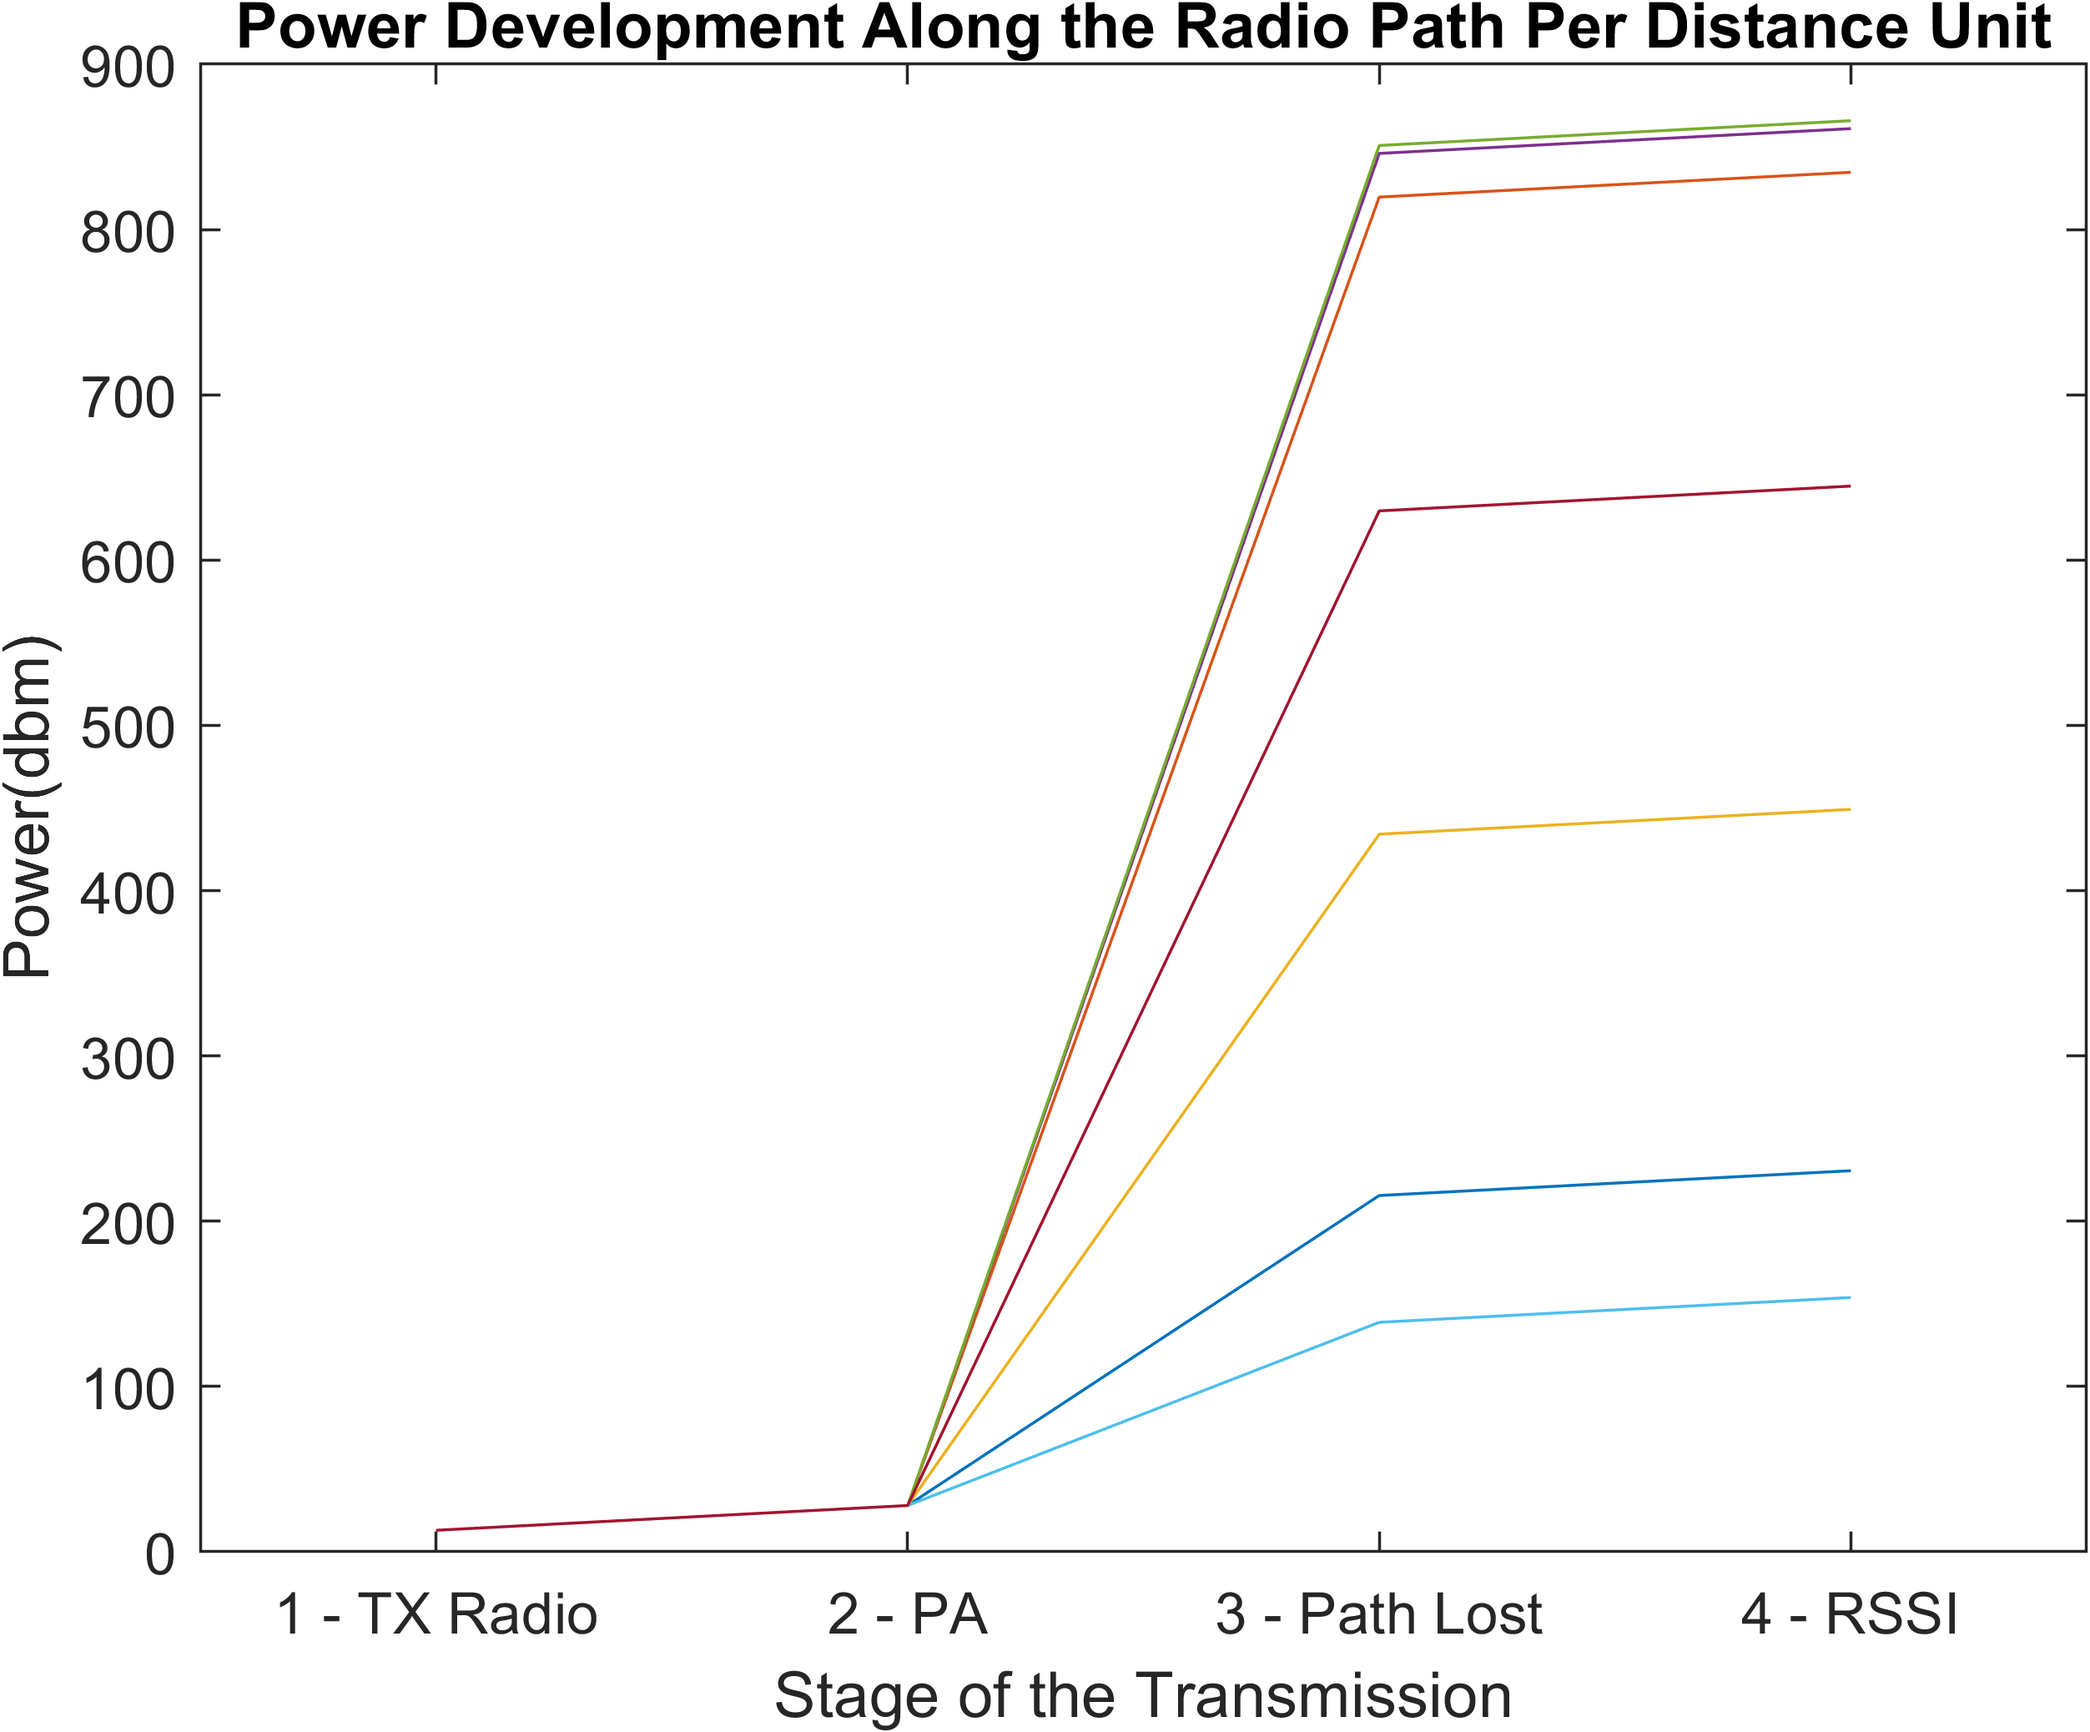
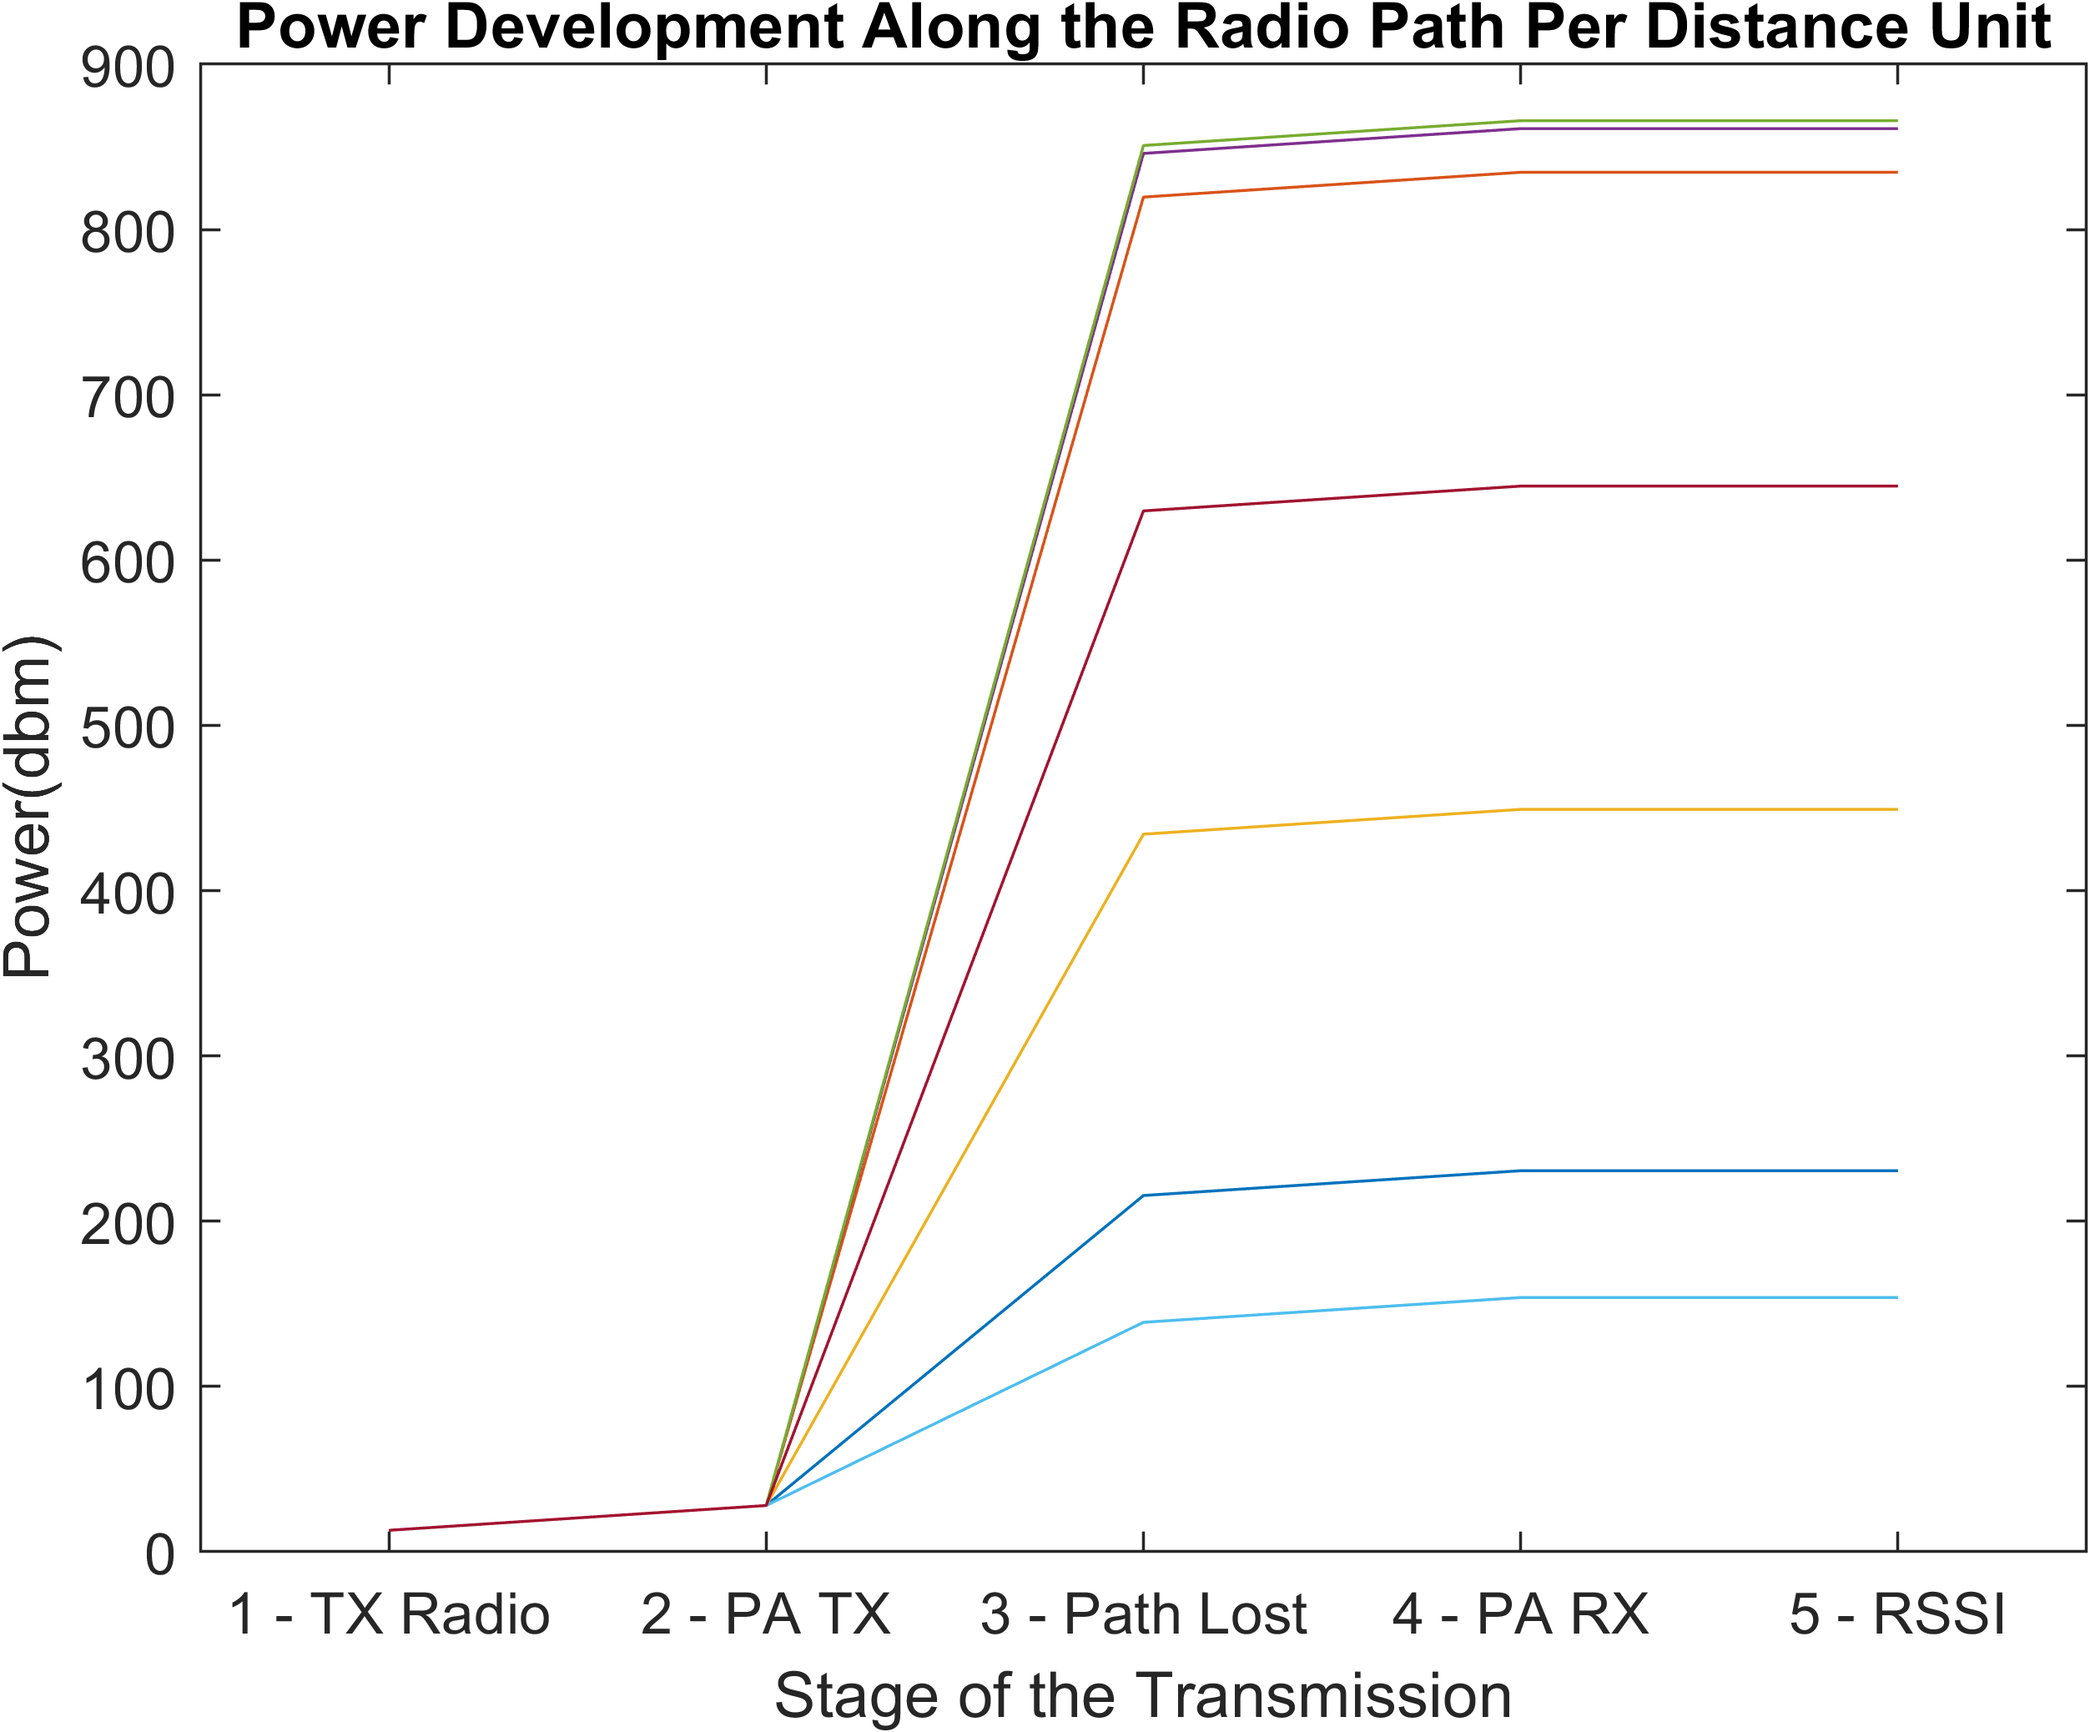
New data model + bug fix

diff --git a/data_collection/Plot.m b/data_collection/Plot.m
@@ -13,16 +13,15 @@ path=double.empty(data_length,0);
 %plot operations
 for i=1:length(files)
     current_file = load(strcat(files(i).folder,'\',files(i).name), '-ascii')
-    longitude=current_file(:,3);
-    latitude=current_file(:,4);
-    initialx = current_file(:,1);
-    initialy = current_file(:,2);
-
-
-    dist = [dist,distance(initialx,initialy,latitude,longitude)]
-    rssi=[rssi,current_file(:,5)];
-    packet_rssi = [packet_rssi,current_file(:,6)];
-    snr=[snr,current_file(:,7)];
+    %longitude=current_file(:,3);
+    %latitude=current_file(:,4);
+    %initialx = current_file(:,1);
+    %initialy = current_file(:,2);
+    dist = current_file(:,1);
+    %dist = [dist,distance(initialx,initialy,latitude,longitude)]
+    rssi=[rssi,current_file(:,2)];
+    packet_rssi = [packet_rssi,current_file(:,3)];
+    snr=[snr,current_file(:,4)];
 end
 packet_rssi_avg= mean(packet_rssi,2)
 rssi_avg= mean(rssi,2)
@@ -85,10 +84,10 @@ figure(2);
 receive_power_lst = transmit_power-Ldb
 rssi_lst = receive_power_lst+gain
 for i=1:data_length
-    cur_path=[init_power;transmit_power;receive_power_lst(i);rssi_lst(i)];
+    cur_path=[init_power;transmit_power;receive_power_lst(i);rssi_lst(i);rssi_lst(i)];
     path = [path,cur_path];
 end
-x_path = {'1 - TX Radio','2 - PA','3 - Path Lost','4 - RSSI'}
+x_path = {'1 - TX Radio','2 - PA TX','3 - Path Lost','4 - PA RX','5 - RSSI'}
 C = categorical(x_path)
 
 plot(C,path)
